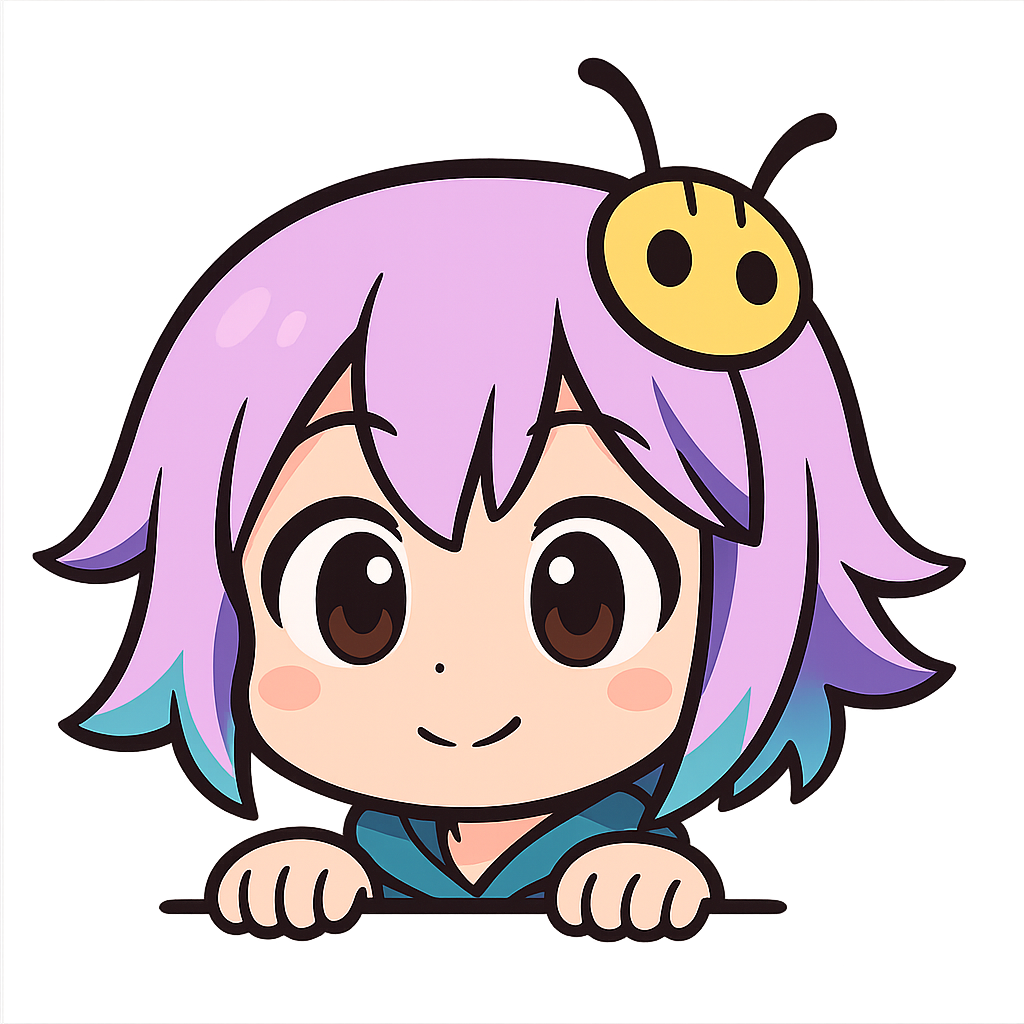
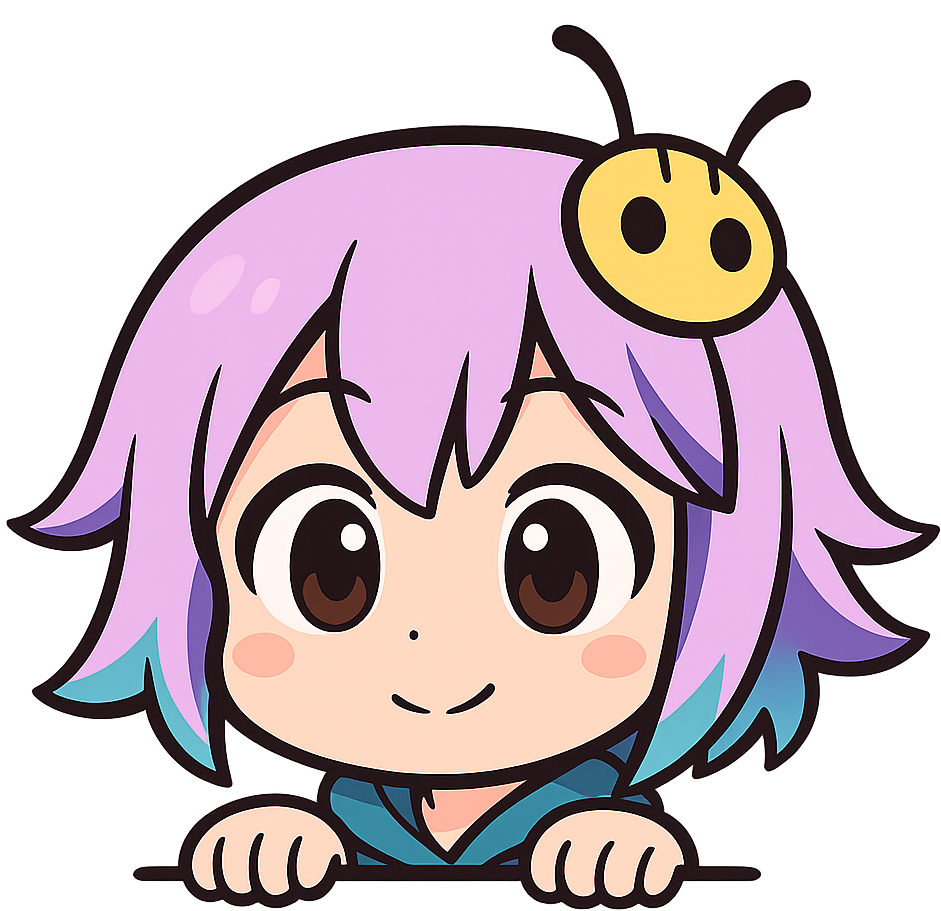
Sentry-chan snap to bottom edge leaning over

diff --git a/chrome-extension/pages/content/src/matches/sentryChan/index.ts b/chrome-extension/pages/content/src/matches/sentryChan/index.ts
@@ -80,6 +80,7 @@ class SentryChanAvatar {
   private avatarImg: HTMLImageElement | null = null;
   private hideButton: HTMLElement | null = null;
   private restoreTab: HTMLElement | null = null;
+  private leaningContainer: HTMLElement | null = null;
 
   private isDragging = false;
   private dragOffset = { x: 0, y: 0 };
@@ -100,6 +101,9 @@ class SentryChanAvatar {
 
   // Celebrating state image
   private celebratingImage: HTMLImageElement | null = null;
+
+  // Leaning over state image
+  private leaningOverImage: HTMLImageElement | null = null;
 
   private debounceTimer: NodeJS.Timeout | null = null;
   private unsubscribe: (() => void) | null = null;
@@ -147,7 +151,7 @@ class SentryChanAvatar {
   }
 
   private async initialize(): Promise<void> {
-    console.log('[Sentry-chan] Initializing floating mascot...');
+    console.log('[Sentry-chan] Initializing debugging companion...');
 
     // Wait for DOM to be ready
     if (document.readyState === 'loading') {
@@ -422,6 +426,26 @@ class SentryChanAvatar {
         outline: 2px solid #8B5CF6;
         outline-offset: 2px;
       }
+
+      /* Leaning container styles */
+      .leaning-container {
+        position: fixed;
+        z-index: 2147483647;
+        opacity: 0;
+        transform: translateY(20px);
+        transition: all 0.3s ease;
+        pointer-events: none;
+      }
+
+      .leaning-container.visible {
+        opacity: 1;
+        transform: translateY(0);
+        pointer-events: auto;
+      }
+
+      .leaning-container:hover {
+        transform: translateY(-5px);
+      }
       
       /* Chat bubble styles */
       .chat-bubble {
@@ -610,6 +634,9 @@ class SentryChanAvatar {
     // Preload both avatar images
     await this.preloadAvatarImages();
 
+    // Create leaning container now that images are loaded
+    this.createLeaningContainer();
+
     // Load PNG avatar
     try {
       console.log('[Sentry-chan] Setting up avatar with idle image');
@@ -704,6 +731,9 @@ class SentryChanAvatar {
     }
     this.shadowRoot.appendChild(this.container);
     this.shadowRoot.appendChild(this.restoreTab);
+    if (this.leaningContainer) {
+      document.body.appendChild(this.leaningContainer);
+    }
 
     this.avatar = avatarImage;
 
@@ -743,6 +773,11 @@ class SentryChanAvatar {
       const celebratingUrl = chrome.runtime.getURL('assets/sentry_chan_celebrating.png');
       this.celebratingImage = await this.loadImage(celebratingUrl);
       console.log('[Sentry-chan] Celebrating image preloaded');
+
+      // Preload leaning over image
+      const leaningOverUrl = chrome.runtime.getURL('assets/sentry_chan_leaning_over.png');
+      this.leaningOverImage = await this.loadImage(leaningOverUrl);
+      console.log('[Sentry-chan] Leaning over image preloaded');
     } catch (error) {
       console.error('[Sentry-chan] Failed to preload images:', error);
       throw error;
@@ -842,6 +877,62 @@ class SentryChanAvatar {
         this.skipTypewriter();
       }
     });
+  }
+
+  private createLeaningContainer(): void {
+    if (!this.leaningOverImage) {
+      return;
+    }
+
+    // Create leaning container
+    this.leaningContainer = document.createElement('div');
+    this.leaningContainer.className = 'leaning-container';
+
+    // Create leaning image
+    const leaningImg = this.leaningOverImage.cloneNode() as HTMLImageElement;
+    leaningImg.alt = 'Sentry-chan leaning over';
+    leaningImg.style.cssText = `
+      width: 100%;
+      height: 100%;
+      cursor: pointer;
+    `;
+
+    this.leaningContainer.appendChild(leaningImg);
+
+    // Position at bottom center
+    this.positionLeaningContainer();
+
+    // Add click handler to restore visibility
+    this.leaningContainer.addEventListener('click', () => {
+      this.showAvatar();
+    });
+  }
+
+  private positionLeaningContainer(): void {
+    if (!this.leaningContainer || !this.leaningOverImage) return;
+
+    const windowWidth = window.innerWidth;
+    const windowHeight = window.innerHeight;
+    const scale = 0.105; // Scale factor for the leaning image
+    const imageWidth = this.leaningOverImage.naturalWidth * scale;
+    const imageHeight = this.leaningOverImage.naturalHeight * scale;
+
+    // Position at bottom center
+    const centerX = (windowWidth - imageWidth) / 2;
+    const bottomY = windowHeight - imageHeight;
+
+    this.leaningContainer.style.cssText = `
+      position: fixed !important;
+      left: ${centerX}px !important;
+      top: ${bottomY}px !important;
+      width: ${imageWidth}px !important;
+      height: ${imageHeight}px !important;
+      z-index: 2147483647 !important;
+      opacity: 0 !important;
+      transform: translateY(20px) !important;
+      transition: all 0.3s ease !important;
+      pointer-events: none !important;
+    `;
   }
 
   private getBubblePosition(): { position: string; arrow: string } {
@@ -1064,6 +1155,13 @@ class SentryChanAvatar {
     // Prevent context menu on avatar
     this.container.addEventListener('contextmenu', e => {
       e.preventDefault();
+    });
+
+    // Handle window resize to reposition leaning container
+    window.addEventListener('resize', () => {
+      if (this.leaningContainer && !this.currentState?.visible) {
+        this.positionLeaningContainer();
+      }
     });
   }
 
@@ -2015,17 +2113,20 @@ class SentryChanAvatar {
       this.container.classList.remove('hidden');
       this.restoreTab.classList.remove('visible');
 
+      // Hide leaning container
+      if (this.leaningContainer) {
+        this.leaningContainer.classList.remove('visible');
+        this.leaningContainer.style.opacity = '0';
+        this.leaningContainer.style.transform = 'translateY(20px)';
+        this.leaningContainer.style.pointerEvents = 'none';
+      }
+
       // Restart activity monitoring and DOM observation when visible
       this.startInactivityMonitoring();
       this.setupDOMObservation();
 
       console.log('[Sentry-chan] Avatar shown');
     } else {
-      // Get position before hiding
-      const rect = this.container.getBoundingClientRect();
-      const restoreX = rect.left + rect.width / 2 - 16;
-      const restoreY = rect.bottom - 6;
-
       // Clear activity timers, DOM observation, and all states when hidden
       this.clearActivityTimers();
       this.clearDOMObservation();
@@ -2035,16 +2136,27 @@ class SentryChanAvatar {
       this.isCelebrating = false;
 
       this.container.classList.add('hidden');
+      this.restoreTab.classList.remove('visible');
 
-      // Position and show restore tab
-      setTimeout(() => {
-        if (this.restoreTab) {
-          this.restoreTab.style.left = `${restoreX}px`;
-          this.restoreTab.style.top = `${restoreY}px`;
-          this.restoreTab.classList.add('visible');
-          console.log('[Sentry-chan] Avatar hidden, restore tab shown');
+      // Show leaning container at bottom center
+      if (this.leaningContainer) {
+        // Always re-append the leaning container to ensure it's in the DOM
+        if (!this.leaningContainer.parentElement) {
+          document.body.appendChild(this.leaningContainer);
         }
-      }, ANIMATION_DURATION);
+        
+        this.positionLeaningContainer();
+        
+        setTimeout(() => {
+          if (this.leaningContainer) {
+            this.leaningContainer.classList.add('visible');
+            // Override the opacity and transform to make it visible
+            this.leaningContainer.style.opacity = '1';
+            this.leaningContainer.style.transform = 'translateY(0)';
+            this.leaningContainer.style.pointerEvents = 'auto';
+          }
+        }, ANIMATION_DURATION);
+      }
     }
   }
 
@@ -2128,6 +2240,11 @@ class SentryChanAvatar {
 
     if (this.unsubscribe) {
       this.unsubscribe();
+    }
+
+    // Remove leaning container from document body if it exists
+    if (this.leaningContainer && this.leaningContainer.parentElement) {
+      this.leaningContainer.remove();
     }
 
     const shadowContainer = document.getElementById(SHADOW_ROOT_ID);

diff --git a/chrome-extension/pages/options/src/Options.tsx b/chrome-extension/pages/options/src/Options.tsx
@@ -55,7 +55,7 @@ const Options = () => {
             <img src={chrome.runtime.getURL('icon-128.png')} alt="Sentry-chan" className="options-logo" />
             <div>
               <h1>Sentry-chan Options</h1>
-              <p className="subtitle">Configure your floating mascot</p>
+              <p className="subtitle">Configure your debugging companion</p>
             </div>
           </div>
         </div>
@@ -193,7 +193,7 @@ const Options = () => {
 
             <div className="about-content">
               <p>
-                <strong>Sentry-chan</strong> is a lightweight floating mascot that appears on Sentry pages.
+                <strong>Sentry-chan</strong> is a debugging companion that appears on Sentry pages.
               </p>
               <ul>
                 <li>🎭 Non-intrusive design with shadow DOM isolation</li>

diff --git a/chrome-extension/chrome-extension/manifest.ts b/chrome-extension/chrome-extension/manifest.ts
@@ -5,9 +5,8 @@ import type { ManifestType } from '@extension/shared';
 const packageJson = JSON.parse(readFileSync('./package.json', 'utf8'));
 
 /**
- * Sentry-chan: Floating Mascot Chrome Extension
- * A lightweight floating avatar for Sentry pages with drag-and-drop,
- * hide/show functionality, and persistent state management.
+ * Sentry-chan: Debugging Companion Chrome Extension
+ * A lightweight floating avatar for Sentry pages.
  */
 const manifest = {
   manifest_version: 3,

diff --git a/chrome-extension/pages/popup/src/Popup.tsx b/chrome-extension/pages/popup/src/Popup.tsx
@@ -32,7 +32,7 @@ const Popup = () => {
         </div>
         <div className="title-container">
           <h1>Sentry-chan</h1>
-          <p className="subtitle">Floating Mascot</p>
+          <p className="subtitle">Debugging Companion</p>
         </div>
       </div>
 
